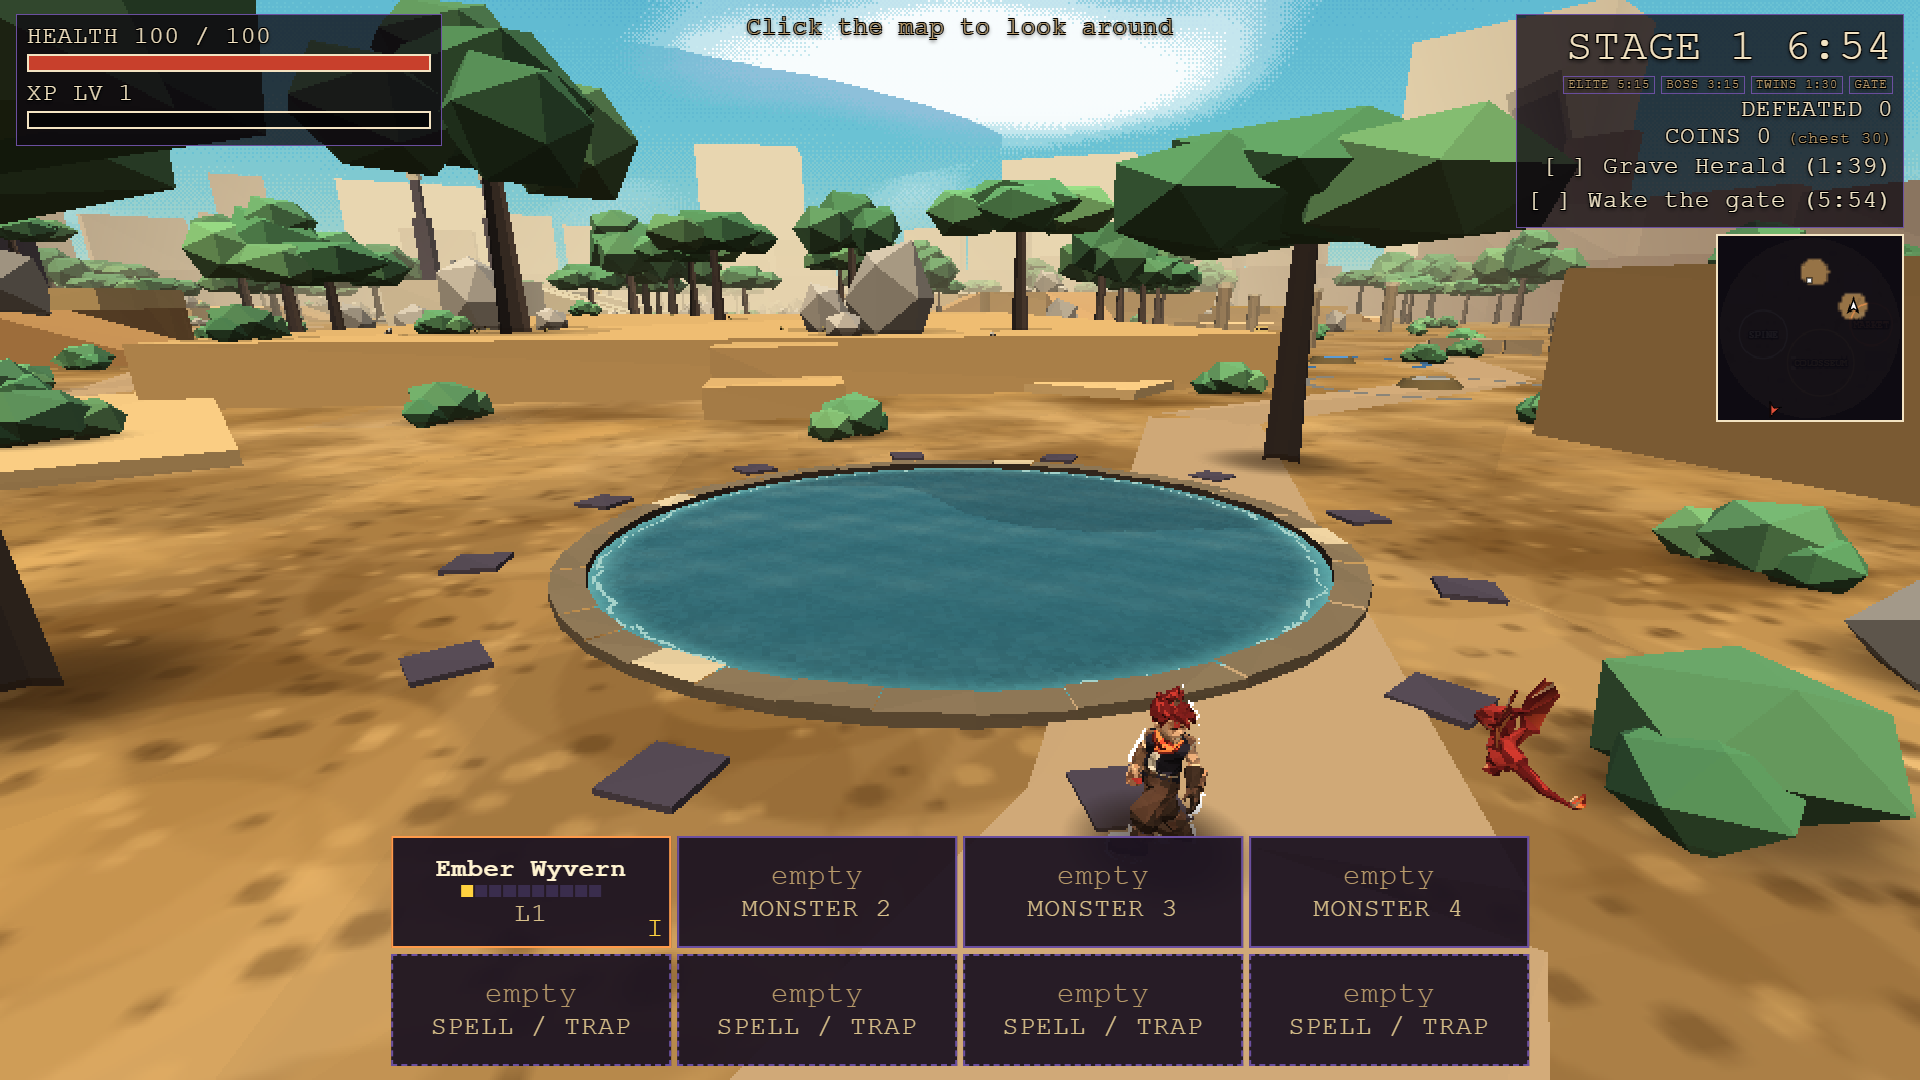
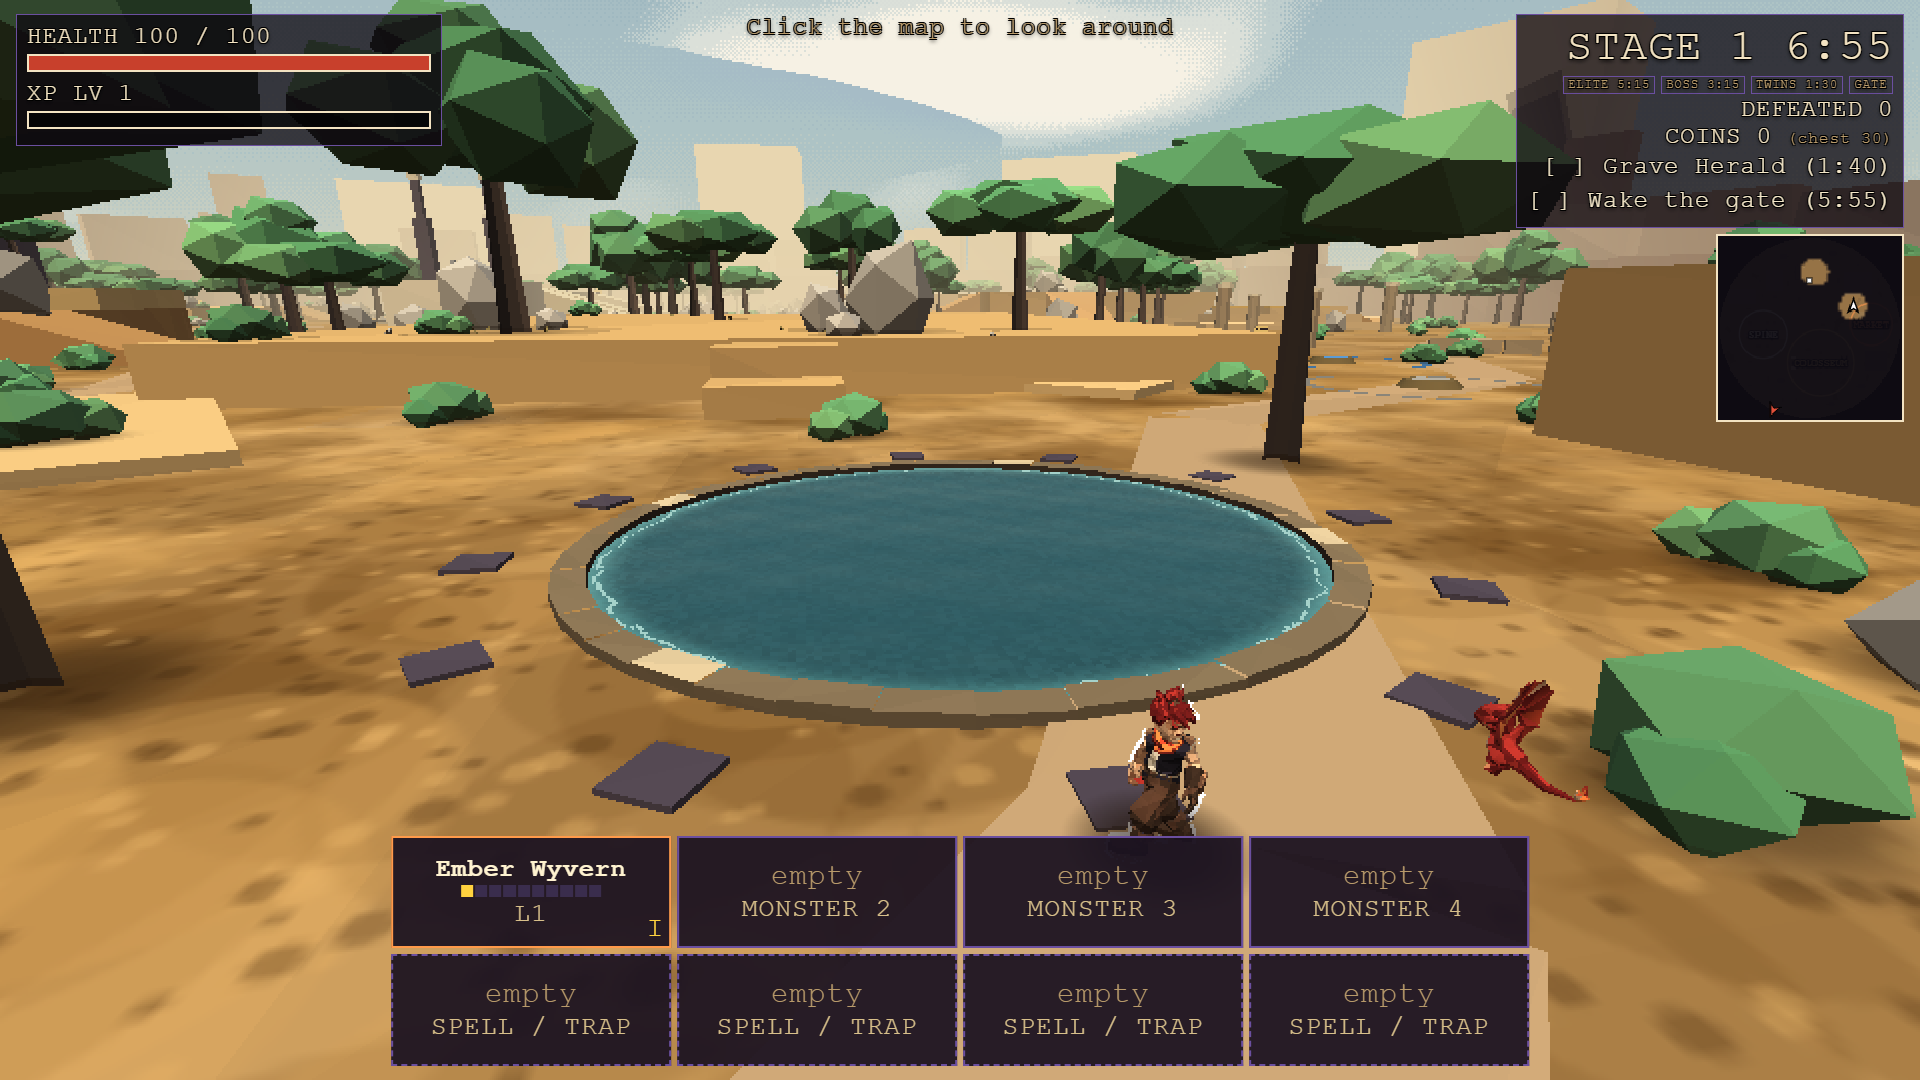
Wind: one gust field as a travelling front, shared by grass, flowers, trees and water
gust() in view/engine.js is now a front: a sharp leading edge with a long tail behind it, broken into patches by the shared noise, crossing the ground at about 9 m/s with 40 m between fronts, over a light steady breeze. A new windify() vertex-shader injection bends each instanced scenery piece along the gust direction by its height, reading the field at the instance's own spot (grass tips lean and flutter, trees lean slowly), with no per-frame upload and no extra draws. Water already reads the same field. New test/browser-wind.mjs (frames every 0.4 s on a tree; changed-pixel bursts show the fronts). Budget run unchanged.

Claude-Session: https://claude.ai/code/session_01G4m5sPDpcSeznt8KShqd9B

diff --git a/duelsummoner/src/view/scenery.js b/duelsummoner/src/view/scenery.js
@@ -3,6 +3,7 @@
 // Every kind is one InstancedMesh with its own chunky look; when a baked model for a kind is present (models.tree etc.) it replaces the stand-in.
 import { scatterStage, mulberry } from '../gen/scatter.js';
 import { seeInstanced } from './seethrough.js';
+import { windify } from './engine.js';
 
 const T = window.THREE;
 
@@ -74,13 +75,13 @@ export function buildScenery(map, stageIndex, models) {
   const theme = THEMES[Math.min(stageIndex || 0, THEMES.length - 1)], S = scatterStage(map, stageIndex, false), group = new T.Group();
   const kinds = [], add = (geo, list, mat, colored, canopy, v) => { if (list.length) kinds.push({ geo, list, mat, colored, canopy, v }); };
   const mat0 = new T.MeshLambertMaterial({ vertexColors: true, flatShading: true }), mat = mat0, matBoth = new T.MeshLambertMaterial({ vertexColors: true, side: T.DoubleSide });      // blades and petals are single triangles: seen from both sides
-  for (let v = 0; v < 4; v++) add(treeGeo(theme, v), S.trees[v], seeInstanced(mat0.clone(), { c: [0, 7.5, 0], r: v < 2 ? 4.8 : 3.7, keep0: 0.25 }, { top: v < 2 ? 6.4 : 5.6 }), false, 3, v);       // trunk and canopy are one mesh per variant (aPart 0 and 1); each variant has its own material (its canopy radius), still 4 draws
+  for (let v = 0; v < 4; v++) add(treeGeo(theme, v), S.trees[v], windify(seeInstanced(mat0.clone(), { c: [0, 7.5, 0], r: v < 2 ? 4.8 : 3.7, keep0: 0.25 }, { top: v < 2 ? 6.4 : 5.6 }), { h: 9, lean: 0.35, flut: 0.03 }), false, 3, v);       // trunk and canopy are one mesh per variant (aPart 0 and 1); each variant has its own material (its canopy radius), still 4 draws
   { const rg = rockGeo(theme, 0), all = [].concat(S.rocks[0], S.rocks[1], S.rocks[2]); rg.computeBoundingSphere(); const bs = rg.boundingSphere; add(rg, all, seeInstanced(mat.clone(), { c: [bs.center.x, bs.center.y, bs.center.z], r: bs.radius, keep0: 0.25 })); }       // one shared boulder shape; size, squash and turn make the variety
   const fadeOut = (m, nearD, farD) => { const c = m.clone(); c.onBeforeCompile = sh => { sh.vertexShader = sh.vertexShader.replace('#include <begin_vertex>', '#include <begin_vertex>\n#ifdef USE_INSTANCING\n { float dd_ = distance((modelMatrix * instanceMatrix * vec4(0.0, 0.0, 0.0, 1.0)).xyz, cameraPosition); if (dd_ < ' + nearD.toFixed(1) + ' || dd_ > ' + farD.toFixed(1) + ') transformed *= 0.0; }\n#endif'); }; return c; };       // small scatter collapses in the vertex shader: nothing within 4 m of the camera, and a far cut-off, with no per-frame upload
   { const bg = bushGeo(theme); bg.computeBoundingSphere(); const bs = bg.boundingSphere; add(bg, S.bushes, seeInstanced(fadeOut(mat, 0, 90), { c: [bs.center.x, bs.center.y, bs.center.z], r: bs.radius, keep0: 0.25 })); }
   if (theme.special) { const sg = theme.special === 'crystal' ? crystalGeo(theme) : mushroomGeo(theme); sg.computeBoundingSphere(); const bs = sg.boundingSphere; add(sg, S.special, seeInstanced(mat.clone(), { c: [bs.center.x, bs.center.y, bs.center.z], r: bs.radius, keep0: 0.25 })); }
-  add(grassGeo(theme), S.grass, fadeOut(matBoth, 4, 70));
-  add(flowerGeo(), S.flowers.map(f => [f[0], f[1], f[2], f[3], f[4], theme.flowerCols[f[5] % theme.flowerCols.length]]), fadeOut(matBoth, 4, 50), true);
+  add(grassGeo(theme), S.grass, windify(fadeOut(matBoth, 4, 70), { h: 0.35, lean: 0.2, flut: 0.03 }));
+  add(flowerGeo(), S.flowers.map(f => [f[0], f[1], f[2], f[3], f[4], theme.flowerCols[f[5] % theme.flowerCols.length]]), windify(fadeOut(matBoth, 4, 50), { h: 0.5, lean: 0.14, flut: 0.02 }), true);
   for (const k of kinds) {
     const mesh = new T.InstancedMesh(k.geo, k.mat, k.list.length), m = new T.Matrix4(), q = new T.Quaternion(), s = new T.Vector3(), p = new T.Vector3(), up = new T.Vector3(0, 1, 0), c = new T.Color();
     k.list.forEach((it, i) => { q.setFromAxisAngle(up, it[4]); s.set(it[3], it[6] || it[3], it[3]); p.set(it[0], it[1], it[2]); m.compose(p, q, s); mesh.setMatrixAt(i, m); if (k.colored) c.setHex(it[5]); else c.setScalar(it[5]); mesh.setColorAt(i, c); });

diff --git a/duelsummoner/src/view/engine.js b/duelsummoner/src/view/engine.js
@@ -38,9 +38,12 @@ export const GLSL = `
 uniform sampler2D uN; uniform float uT; uniform vec3 uWind; uniform vec3 uSkyT; uniform vec3 uSkyH; uniform vec3 uSkyG; uniform vec3 uSunD; uniform vec3 uSunK;
 vec4 N(vec2 u) { return texture2D(uN, u); }
 float hsh(vec2 t) { return texture2D(uN, (floor(t) + 0.5) / 64.0).b; }
-float gust(vec2 p) {
-  float f = smoothstep(0.3, 0.78, N(p * 0.011 - vec2(30.0, 10.0) / 512.0 * uT).r);
-  return f * (0.72 + 0.28 * sin(dot(p, uWind.xy) * 0.12 - uT * 1.2)) * uWind.z;
+float gust(vec2 p) {                                       // a travelling front: a sharp leading edge, a long tail behind it, broken into patches by the noise, crossing the ground at about 9 m/s with 40 m between fronts
+  vec2 d = normalize(uWind.xy);
+  float s = dot(p, d) * 0.025 - uT * 0.22 + 0.35 * (N(p * 0.013).r - 0.5), ph = fract(s);
+  float front = smoothstep(0.0, 0.05, ph) * (1.0 - smoothstep(0.05, 0.5, ph));
+  float gp = smoothstep(0.25, 0.65, N(p * 0.015 + 0.2).a);
+  return mix(0.15, 1.0, front * gp) * uWind.z;
 }
 vec3 skyBase(vec3 d) {
   float k = floor(sqrt(max(d.y, 0.0)) * 12.0 + 0.5) / 12.0;
@@ -64,6 +67,24 @@ export function actorLit(mat, k = 1) {
     sh.fragmentShader = 'uniform vec3 uALift; uniform vec3 uAKey; varying vec3 vANormal;\n' + sh.fragmentShader.replace('#include <envmap_fragment>', '#include <envmap_fragment>\n outgoingLight += (uALift * (0.55 + 0.45 * dot(diffuseColor.rgb, vec3(0.3, 0.59, 0.11))) + uAKey * diffuseColor.rgb * max(dot(normalize(vANormal), vec3(0.0, 0.62, 0.78)), 0.0)) * ' + k.toFixed(2) + ';');
   };
   const key = mat.customProgramCacheKey ? mat.customProgramCacheKey.bind(mat) : null; mat.customProgramCacheKey = () => (key ? key() : '') + 'actorlit' + k.toFixed(2);
+  return mat;
+}
+
+// ---- wind on instanced scenery: bends each instance along the gust direction by its height, read from the one gust() field at the instance's own spot (grass: tip lean and flutter; trees: a slow lean that lags the front).
+// k = { h: height that counts as full bend (m), lean: metres of lean at full height in a full gust, flut: flutter in metres }. View only; vertex shader, so no per-frame upload.
+export function windify(mat, k) {
+  const prev = mat.onBeforeCompile;
+  mat.onBeforeCompile = sh => {
+    if (prev) prev(sh); const u = engineUniforms(); for (const n in u) sh.uniforms[n] = u[n];
+    sh.vertexShader = GLSL.slice(0, GLSL.indexOf('float bayer()')) + sh.vertexShader.replace('#include <begin_vertex>', `#include <begin_vertex>
+#ifdef USE_INSTANCING
+ { mat3 im_ = mat3(modelMatrix * instanceMatrix); vec3 ip_ = (modelMatrix * instanceMatrix * vec4(0.0, 0.0, 0.0, 1.0)).xyz; float g_ = gust(ip_.xz), hh_ = clamp(transformed.y / ${k.h.toFixed(2)}, 0.0, 1.0); hh_ *= hh_;
+  float fl_ = sin(uT * 4.3 + ip_.x * 1.7 + ip_.z * 2.3 + transformed.x * 3.0) * ${k.flut.toFixed(3)} * g_;
+  vec2 wd_ = normalize(uWind.xy); vec3 dw_ = vec3(wd_.x, 0.0, wd_.y) * (0.12 + 0.88 * g_) * ${k.lean.toFixed(3)} * hh_ + vec3(fl_ * hh_, 0.0, -fl_ * hh_);
+  transformed += vec3(dot(im_[0], dw_), dot(im_[1], dw_), dot(im_[2], dw_)) / max(dot(im_[0], im_[0]), 1e-4); }
+#endif`);
+  };
+  const key = mat.customProgramCacheKey ? mat.customProgramCacheKey.bind(mat) : null; mat.customProgramCacheKey = () => (key ? key() : '') + 'windify' + k.h + k.lean + k.flut;
   return mat;
 }
 
